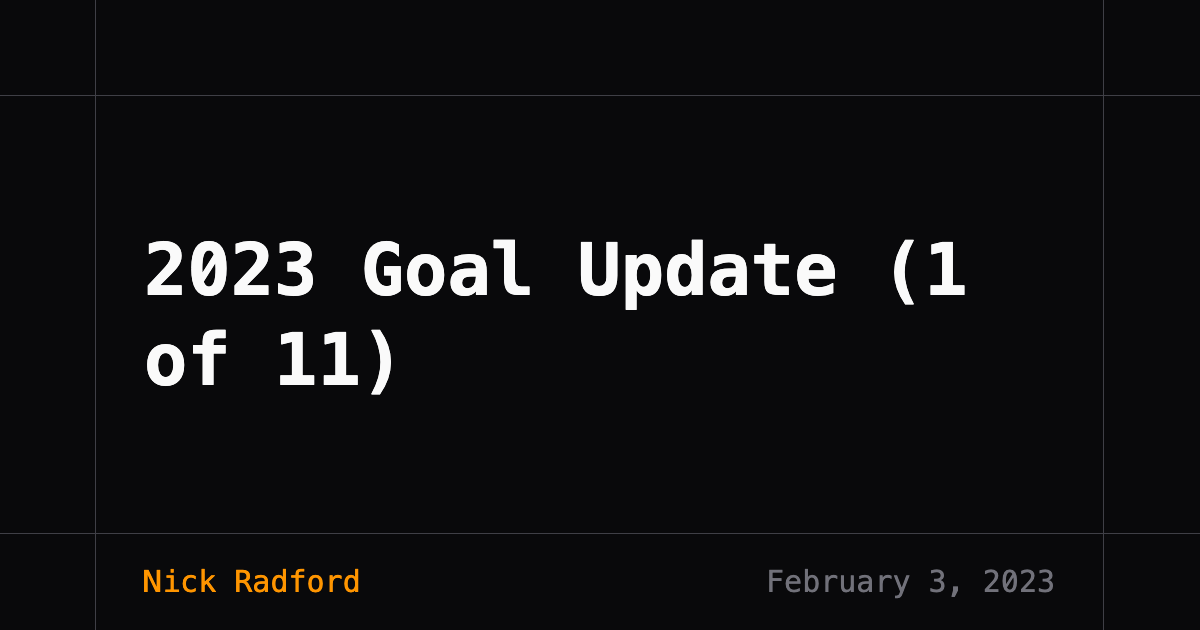
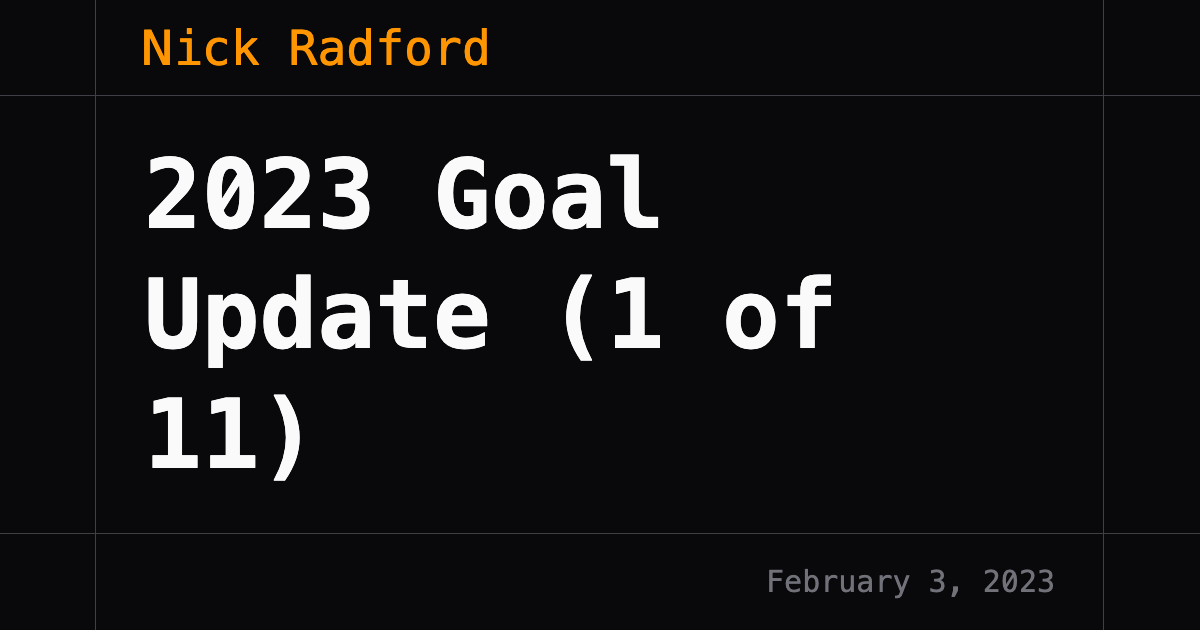
change og

diff --git a/src/components/social-card.tsx b/src/components/social-card.tsx
@@ -20,14 +20,16 @@ export function SocialCard({ posts }: { posts: any[] }) {
     <div className="w-[1200px] h-[630px] bg-zinc-950 text-zinc-50 flex font-scp flex-col">
       <header className="h-24 border-b border-zinc-700 flex *:border-zinc-700 relative">
         <div className="border-r w-24" />
-        <div className="border-r flex-1" />
+        <div className="border-r flex-1 px-12 flex items-center text-5xl">
+          <p className="text-yellow">Nick Radford</p>
+        </div>
         <div className="w-24" />
       </header>
 
       <main className="flex-1 border-zinc-700 flex *:border-zinc-700 border-b">
         <div className="border-r w-24"></div>
 
-        <div className="text-7xl font-bold leading-tight text-start flex-1 px-12 border-r relative flex items-center">
+        <div className="text-8xl font-bold leading-tight text-start flex-1 px-12 border-r relative flex items-center">
           <h1>{post.data.title}</h1>
           {/*<DitherTriangle className="absolute bottom-0.5 right-0.5 size-44" />
           <DitherTriangle className="absolute top-0.5 right-0.5 size-44 -rotate-90" />
@@ -39,14 +41,16 @@ export function SocialCard({ posts }: { posts: any[] }) {
 
       <footer className="h-24 border-zinc-700 flex *:border-zinc-700">
         <div className="border-r w-24" />
-        <div className="border-r flex-1 flex items-center px-12 text-3xl justify-between text-zinc-500">
-          <p className="text-yellow">Nick Radford</p>
+        <div className="border-r flex-1 flex items-center px-12 text-3xl justify-end text-zinc-500">
           <p>
-            {getLocalDate(new Date(post.data.date)).toLocaleDateString("en-US", {
-              year: "numeric",
-              month: "long",
-              day: "numeric",
-            })}
+            {getLocalDate(new Date(post.data.date)).toLocaleDateString(
+              "en-US",
+              {
+                year: "numeric",
+                month: "long",
+                day: "numeric",
+              },
+            )}
           </p>
         </div>
         <div className="w-24" />
